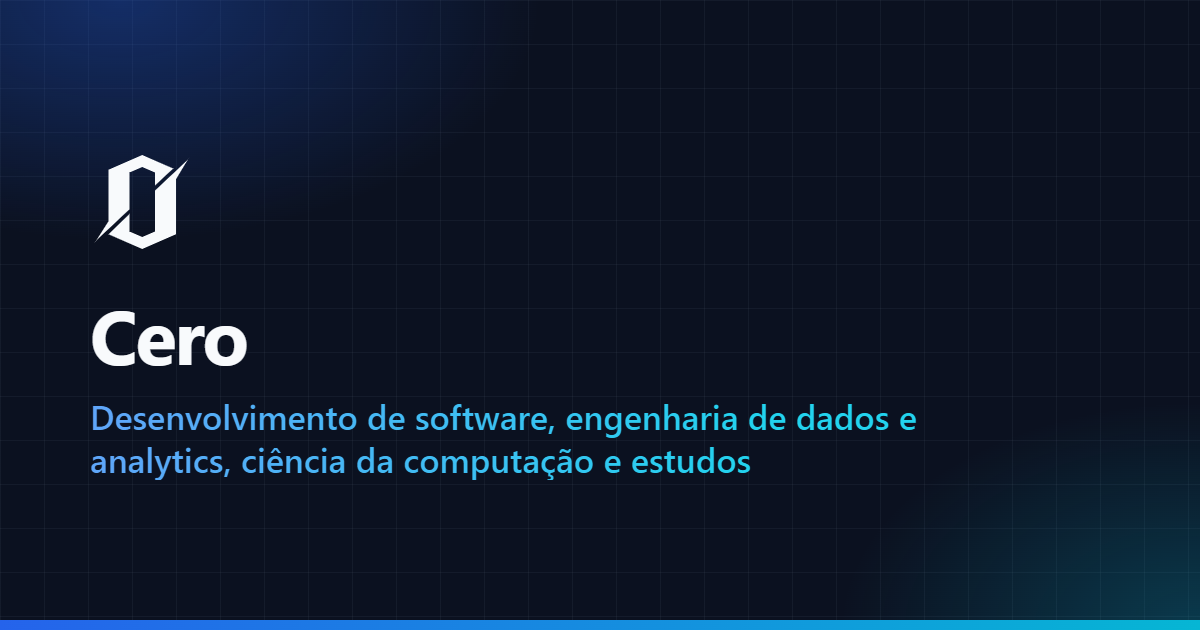
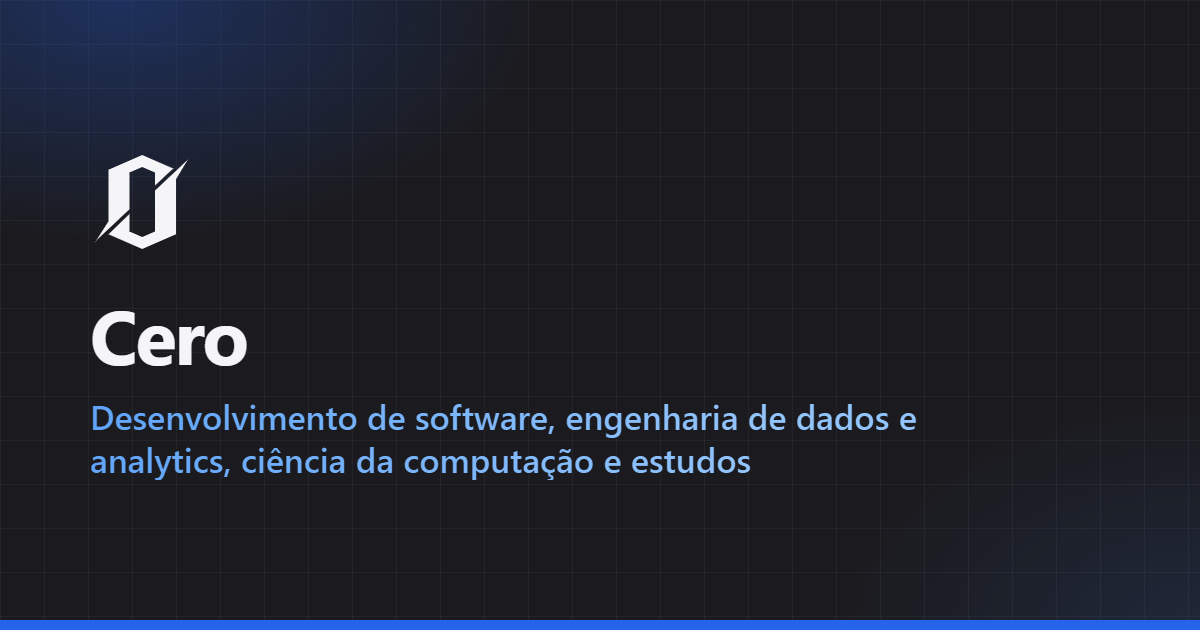
Cor principal #1B1B1F com azul como secundária; força atualização do ícone
Tokens de cor passam a usar grafite #1B1B1F (cor da logo) como principal e
azul #2563EB como secundária, sem ciano. Botões e filtros usam on-primary
para manter contraste nos dois temas. Capas, barra de leitura e imagem de
compartilhamento seguem a nova paleta. Os links do favicon e do ícone Apple
ganham ?v=2 para que navegadores descartem o ícone antigo em cache.

Changed region(s): [[0.2775, 0.9651, 1.0, 1.0], [0.185, 0.6333, 0.7708, 0.6937], [0.185, 0.7238, 0.6475, 0.754]]

diff --git a/src/styles/global.css b/src/styles/global.css
@@ -6,49 +6,56 @@
 
 /* ------------------------------------------------------------------
  * Tokens de cor
- * Paleta-base: #0B1120 (fundo), #111827 (superfícies), #2563EB (principal),
- * #06B6D4 (secundária), #F8FAFC (texto), #94A3B8 (texto secundário).
- * Tons de texto foram ajustados para contraste WCAG AA em ambos os temas.
+ * Cor principal: #1B1B1F (grafite, a cor da logo). Secundária: azul #2563EB.
+ * Tema claro: texto e botões em grafite, destaques em azul.
+ * Tema escuro: fundo grafite, destaques em azul.
+ * Tons de texto ajustados para contraste WCAG AA em ambos os temas.
  * ------------------------------------------------------------------ */
 :root {
-  --bg: #f8fafc;
+  --bg: #f7f7f8;
   --surface: #ffffff;
-  --surface-2: #f1f5f9;
-  --fg: #0f172a;
-  --fg-soft: #1e293b;
-  --muted: #475569;
-  --border: #e2e8f0;
-  --border-strong: #cbd5e1;
-  --primary: #2563eb; /* fundos de botão (branco sobre ele: 5.2:1) */
-  --primary-hover: #1d4ed8;
-  --link: #1d4ed8; /* texto/links: 6.7:1 sobre o fundo claro */
-  --accent: #0e7490; /* ciano para texto: 5.4:1 */
-  --accent-strong: #06b6d4; /* ciano decorativo */
-  --glow-1: rgb(37 99 235 / 0.12);
-  --glow-2: rgb(6 182 212 / 0.1);
-  --grid: rgb(15 23 42 / 0.05);
+  --surface-2: #efeff1;
+  --fg: #1b1b1f;
+  --fg-soft: #2c2c33;
+  --muted: #5b5b66; /* 6.2:1 sobre o fundo */
+  --border: #e4e4e7;
+  --border-strong: #cfcfd5;
+  --primary: #1b1b1f; /* fundos de botão */
+  --on-primary: #ffffff;
+  --primary-hover: #34343b;
+  --link: #1d4ed8; /* azul para texto/links: 6.4:1 */
+  --accent: #1d4ed8; /* azul para texto */
+  --accent-strong: #2563eb; /* azul decorativo */
+  --glow-1: rgb(37 99 235 / 0.1);
+  --glow-2: rgb(27 27 31 / 0.05);
+  --grid: rgb(27 27 31 / 0.05);
+  --selection: rgb(37 99 235 / 0.25);
+  --shadow: rgb(27 27 31 / 0.25);
   --warning-bg: #fef3c7;
   --warning-fg: #78350f;
   color-scheme: light;
 }
 
 .dark {
-  --bg: #0b1120;
-  --surface: #111827;
-  --surface-2: #162036;
-  --fg: #f8fafc;
-  --fg-soft: #e2e8f0;
-  --muted: #94a3b8;
-  --border: #1e293b;
-  --border-strong: #334155;
-  --primary: #2563eb;
-  --primary-hover: #3b82f6;
-  --link: #60a5fa; /* 7.1:1 sobre #0B1120 */
-  --accent: #22d3ee;
-  --accent-strong: #06b6d4;
-  --glow-1: rgb(37 99 235 / 0.22);
-  --glow-2: rgb(6 182 212 / 0.14);
-  --grid: rgb(148 163 184 / 0.07);
+  --bg: #1b1b1f;
+  --surface: #232329;
+  --surface-2: #2b2b32;
+  --fg: #f5f5f7;
+  --fg-soft: #e4e4e7;
+  --muted: #a1a1aa; /* 7.1:1 sobre o fundo */
+  --border: #303037;
+  --border-strong: #42424a;
+  --primary: #f5f5f7; /* botão claro sobre o fundo grafite */
+  --on-primary: #1b1b1f;
+  --primary-hover: #ffffff;
+  --link: #60a5fa; /* 6.9:1 sobre #1B1B1F */
+  --accent: #60a5fa;
+  --accent-strong: #3b82f6;
+  --glow-1: rgb(37 99 235 / 0.2);
+  --glow-2: rgb(59 130 246 / 0.08);
+  --grid: rgb(245 245 247 / 0.05);
+  --selection: rgb(59 130 246 / 0.35);
+  --shadow: rgb(0 0 0 / 0.5);
   --warning-bg: #422006;
   --warning-fg: #fde68a;
   color-scheme: dark;
@@ -65,6 +72,7 @@
   --color-border-strong: var(--border-strong);
   --color-primary: var(--primary);
   --color-primary-hover: var(--primary-hover);
+  --color-on-primary: var(--on-primary);
   --color-link: var(--link);
   --color-accent: var(--accent);
   --color-accent-strong: var(--accent-strong);
@@ -97,7 +105,7 @@
     text-wrap: balance;
   }
   p { text-wrap: pretty; }
-  ::selection { background: rgb(37 99 235 / 0.3); }
+  ::selection { background: var(--selection); }
 
   :focus-visible {
     outline: 2px solid var(--accent-strong);
@@ -138,7 +146,7 @@
   .card-hover:hover {
     border-color: color-mix(in oklab, var(--primary) 55%, var(--border));
     transform: translateY(-2px);
-    box-shadow: 0 12px 32px -16px rgb(37 99 235 / 0.35);
+    box-shadow: 0 12px 32px -16px var(--shadow);
   }
 
   .btn {
@@ -154,7 +162,7 @@
     transition: background-color 0.15s ease, border-color 0.15s ease, color 0.15s ease, transform 0.15s ease;
   }
   .btn:active { transform: translateY(1px); }
-  .btn-primary { background: var(--primary); color: #fff; }
+  .btn-primary { background: var(--primary); color: var(--on-primary); }
   .btn-primary:hover { background: var(--primary-hover); }
   .btn-ghost { border: 1px solid var(--border-strong); color: var(--fg); background: transparent; }
   .btn-ghost:hover { border-color: var(--link); color: var(--link); }

diff --git a/src/pages/site.webmanifest.ts b/src/pages/site.webmanifest.ts
@@ -10,11 +10,11 @@ export function GET() {
     start_url: withBase('/'),
     scope: withBase('/'),
     display: 'browser',
-    background_color: '#0B1120',
-    theme_color: '#0B1120',
+    background_color: '#1B1B1F',
+    theme_color: '#1B1B1F',
     icons: [
-      { src: withBase('/favicon.svg'), sizes: 'any', type: 'image/svg+xml' },
-      { src: withBase('/apple-touch-icon.png'), sizes: '180x180', type: 'image/png' },
+      { src: withBase('/favicon.svg?v=2'), sizes: 'any', type: 'image/svg+xml' },
+      { src: withBase('/apple-touch-icon.png?v=2'), sizes: '180x180', type: 'image/png' },
     ],
   };
   return new Response(JSON.stringify(manifest, null, 2), { headers: { 'Content-Type': 'application/manifest+json' } });
